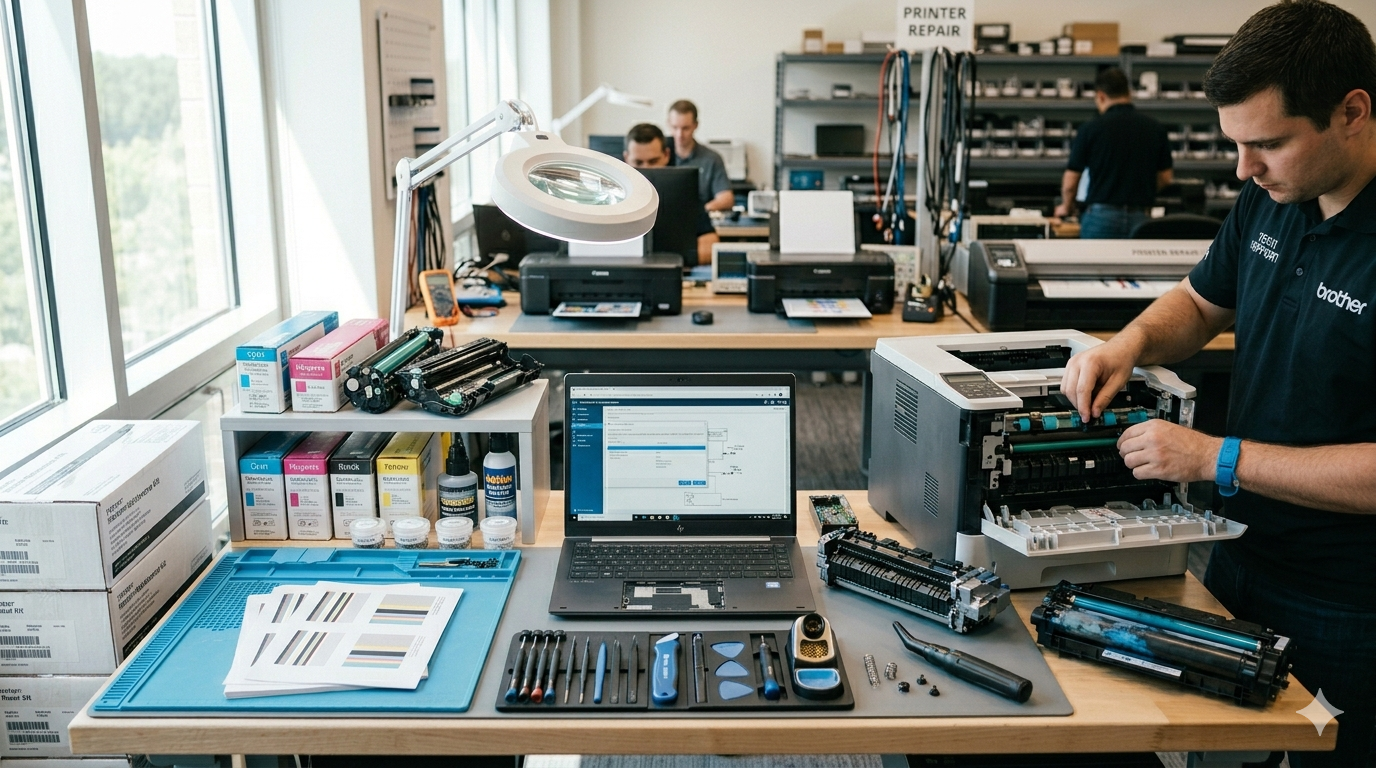
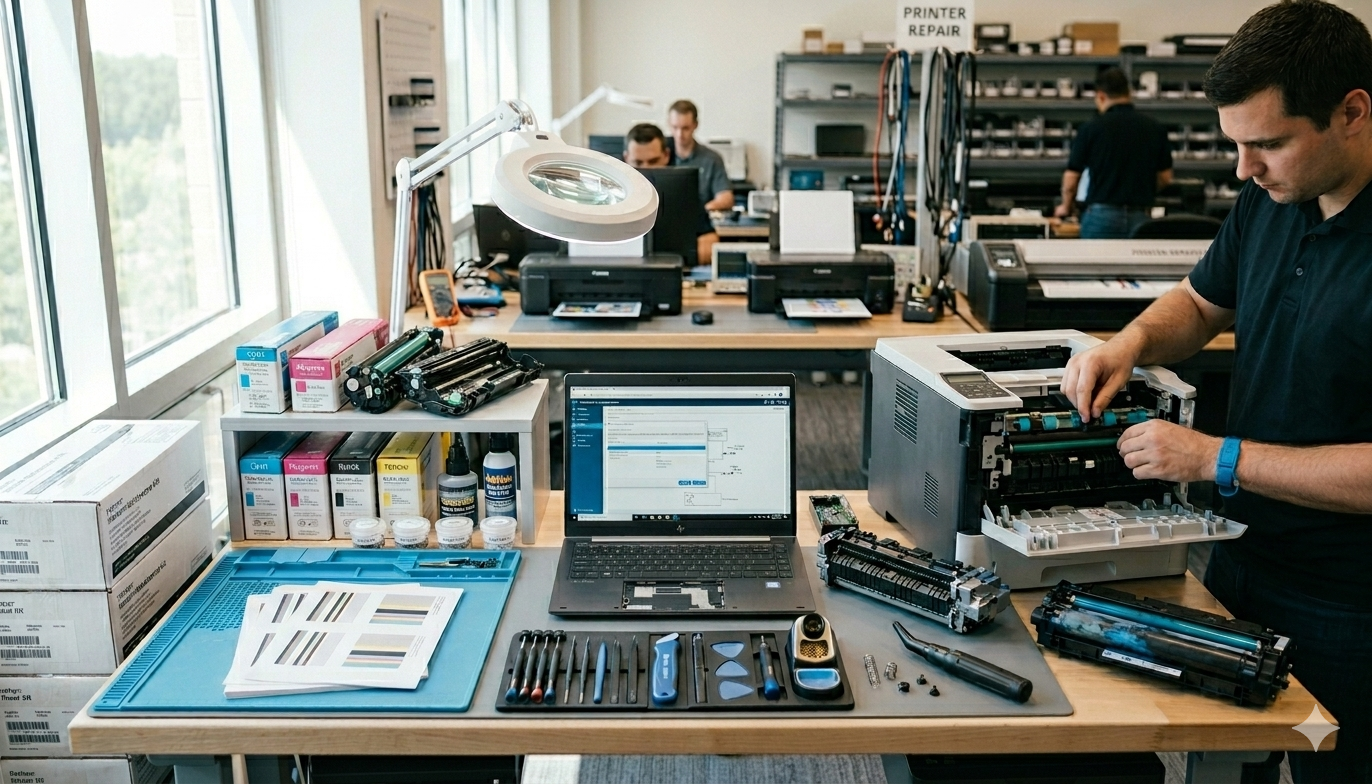
fix: nova imagem hero e correções de texto
- Atualiza imagem de fundo do hero (hero-bg.png)
- Corrige "thermal" para "térmica" (serviços e sobre)
- Atualiza horário de atendimento: 09h–17h, Sáb/Dom fechado

diff --git a/index.html b/index.html
@@ -125,7 +125,7 @@
             <div class="service-card-top"></div>
             <div class="service-icon"><i class="fas fa-tools" aria-hidden="true"></i></div>
             <h3>Assistência Técnica</h3>
-            <p>Reparo autorizado de impressoras laser, jato de tinta, matricial, thermal e cera. Diagnóstico preciso e
+            <p>Reparo autorizado de impressoras laser, jato de tinta, matricial, térmica e cera. Diagnóstico preciso e
               peças originais.</p>
             <a href="https://wa.me/5581992789256" target="_blank" rel="noopener" class="service-link">Saiba mais <i
                 class="fas fa-arrow-right"></i></a>
@@ -225,7 +225,7 @@
           <h2 class="section-title text-left">Somos a Megatron</h2>
           <p class="about-text">
             No mercado desde <strong>2008</strong>, a Megatron é liderada por <strong>Erik Lima</strong>, com mais de 20
-            anos de experiência técnica em manutenção de impressoras laser, jato de tinta, matricial, thermal e cera —
+            anos de experiência técnica em manutenção de impressoras laser, jato de tinta, matricial, térmica e cera —
             além de microcomputadores, notebooks e reparo de placas.
           </p>
           <p class="about-text">
@@ -405,7 +405,7 @@
               <div class="location-icon"><i class="fas fa-clock" aria-hidden="true"></i></div>
               <div>
                 <strong>Horário de atendimento</strong>
-                <p>Seg. a Sex. — 8h às 18h<br>Sáb. — 8h às 13h</p>
+                <p>Seg. a Sex. — 09h às 17h<br>Sáb. e Dom. — Fechado</p>
               </div>
             </div>
             <div class="location-actions">
